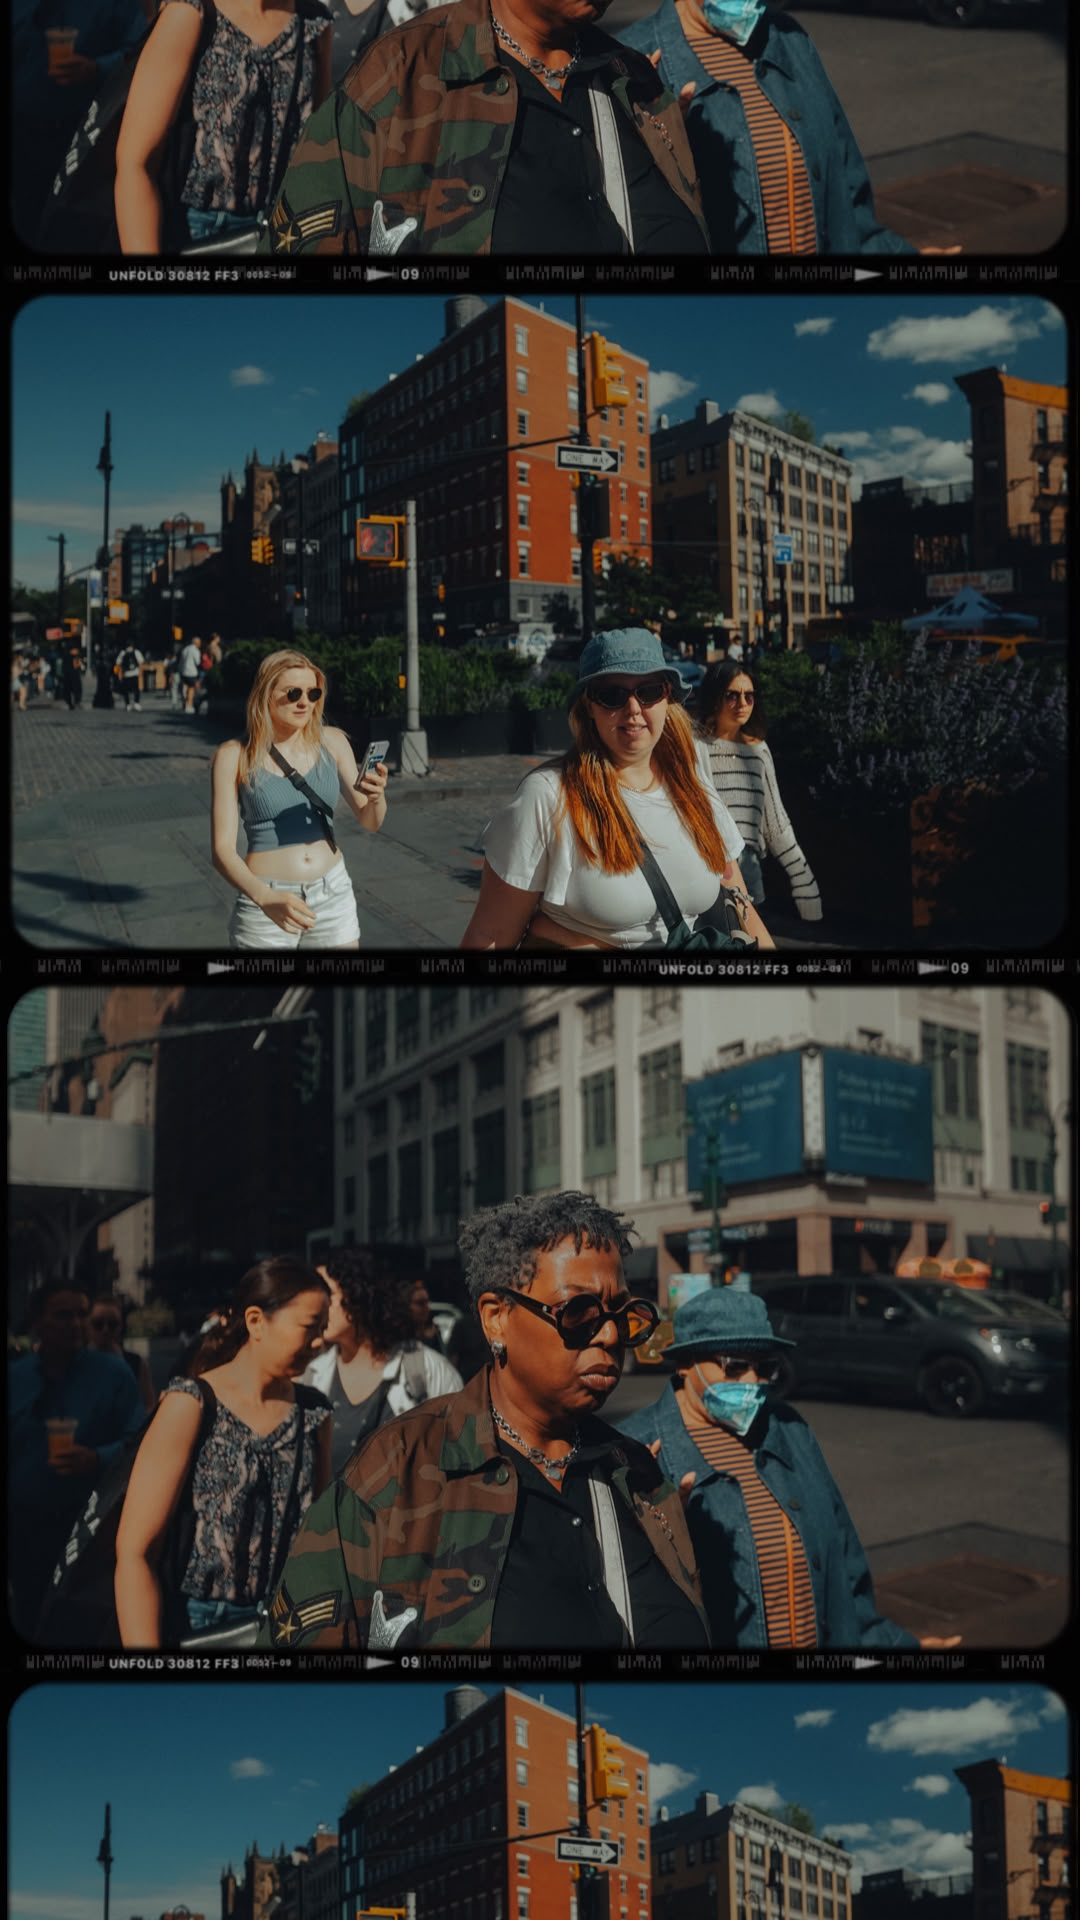
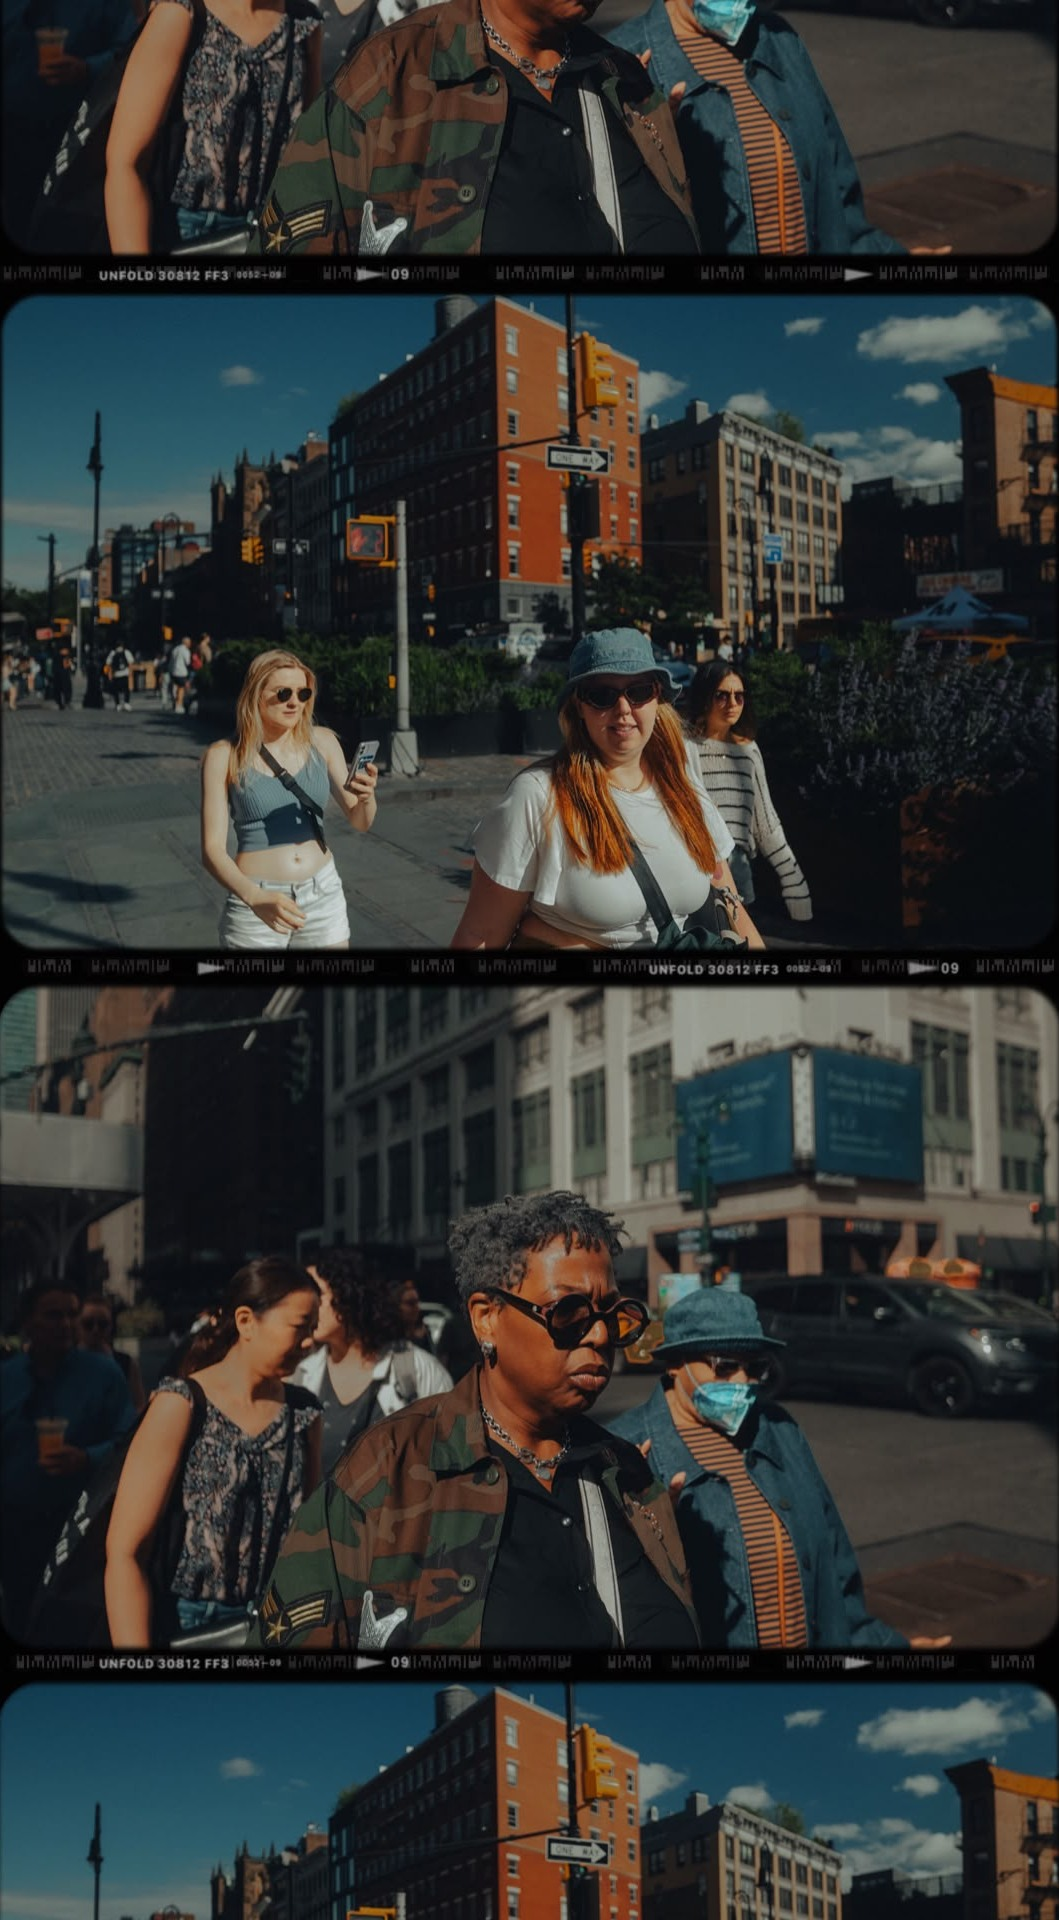
Fix About UX: crop Big Texan bars, drop duplicate photobook label, wire trip photos.
Clean polaroid/solo image framing so letterboxing never shows on black; deploy corpus for IL/KS/NM/TX stops.

diff --git a/src/index.css b/src/index.css
@@ -845,6 +845,7 @@ button {
   border-radius: 3px;
   box-shadow: 0 6px 16px rgba(0, 0, 0, 0.18);
   transform: rotate(-3deg);
+  overflow: hidden;
 }
 
 .road-trip__polaroid img {
@@ -852,6 +853,8 @@ button {
   width: 100%;
   aspect-ratio: 4 / 3;
   object-fit: cover;
+  object-position: center;
+  background: #f0f2f5; /* never letterbox onto black */
 }
 
 .road-trip__panel-text {
@@ -915,7 +918,16 @@ button {
 /* ── About: solo city trips ──────────────────────────────────────── */
 .about-solo-trips {
   margin-top: 3rem;
-  padding-bottom: 3rem;
+  padding: 0 clamp(0.75rem, 3vw, 2rem) 2rem;
+  max-width: 1100px;
+  margin-inline: auto;
+}
+
+.about-solo-trips__layout {
+  display: grid;
+  grid-template-columns: 1fr;
+  gap: 1.5rem;
+  align-items: stretch;
 }
 
 .solo-trips__grid {
@@ -929,12 +941,20 @@ button {
   margin: 0;
 }
 
+.solo-trips__frame {
+  border-radius: 8px;
+  overflow: hidden;
+  border: 1px solid var(--folio-line, #d5dde5);
+  background: #f0f2f5;
+}
+
 .solo-trips__grid img {
+  display: block;
   width: 100%;
   aspect-ratio: 4 / 5;
   object-fit: cover;
-  border-radius: 6px;
-  border: 1px solid var(--folio-line, #d5dde5);
+  object-position: center;
+  background: #f0f2f5;
 }
 
 .solo-trips__grid figcaption {
@@ -946,25 +966,103 @@ button {
   color: var(--muted);
 }
 
-.about-photobook {
-  margin-top: 3rem;
-  padding-bottom: 3rem;
+/* Desktop / laptop / tablet: photobook callout fills the right blank */
+.solo-trips__photobook {
+  display: none;
+  flex-direction: column;
+  justify-content: center;
+  align-items: flex-start;
+  gap: 0.65rem;
+  min-height: 12rem;
+  padding: 1.75rem 1.5rem;
+  border: 1px solid var(--folio-line, #d5dde5);
+  border-radius: 10px;
+  background: #fff;
+  text-decoration: none;
+  color: inherit;
+  transition: border-color 0.2s ease, transform 0.2s ease;
 }
 
-.about-photobook__label {
+.solo-trips__photobook:hover {
+  border-color: #111212;
+  transform: translateY(-2px);
+}
+
+.solo-trips__photobook-label {
   font-family: 'Just Me Again Down Here', cursive;
-  font-size: 1.6rem;
+  font-size: clamp(2rem, 4vw, 3.25rem);
+  line-height: 1.05;
   color: #111212;
-  margin-bottom: 0.75rem;
+}
+
+.solo-trips__photobook-sub {
+  font-family: var(--font-mono, 'DM Mono', monospace);
+  font-size: 0.72rem;
+  letter-spacing: 0.08em;
+  text-transform: uppercase;
+  color: var(--muted, #747272);
+}
+
+@media (min-width: 768px) {
+  .about-solo-trips__layout {
+    grid-template-columns: minmax(0, 1.15fr) minmax(0, 0.85fr);
+    gap: 2rem;
+    align-items: stretch;
+  }
+
+  .solo-trips__grid {
+    max-width: none;
+  }
+
+  .solo-trips__photobook {
+    display: flex;
+    min-height: 100%;
+    align-self: stretch;
+  }
+}
+
+@media (max-width: 767px) {
+  .solo-trips__photobook {
+    display: flex;
+    min-height: 0;
+  }
+}
+
+.about-photobook {
+  margin: 1rem auto 0;
+  padding: 0 clamp(0.75rem, 3vw, 2rem) 3.5rem;
+  max-width: 1100px;
+}
+
+.about-photobook__frame-wrap {
+  border: 1px solid var(--folio-line, #d5dde5);
+  border-radius: 10px;
+  overflow: hidden;
+  background: #fff;
+  box-shadow: 0 8px 28px rgba(15, 23, 42, 0.06);
 }
 
 .about-photobook__frame {
   display: block;
   width: 100%;
-  max-width: 960px;
-  height: 640px;
-  border: 1px solid var(--folio-line, #d5dde5);
-  border-radius: 8px;
+  height: min(70vh, 720px);
+  border: 0;
+  background: #fff;
+}
+
+.about-photobook__external {
+  display: inline-flex;
+  margin-top: 0.85rem;
+  font-family: var(--font-mono, 'DM Mono', monospace);
+  font-size: 0.72rem;
+  letter-spacing: 0.06em;
+  text-transform: uppercase;
+  color: var(--muted, #747272);
+  text-decoration: none;
+}
+
+.about-photobook__external:hover {
+  color: #111212;
 }
 
 @media (max-width: 700px) {

diff --git a/src/components/RoadTrip.jsx b/src/components/RoadTrip.jsx
@@ -14,7 +14,11 @@ const OTHER_COLOR = '#f6f4ee'
 // Fractional position (0-1) within each stop's state bounding box, based on
 // the real-world location relative to that state's shape.
 const TRIP_STOPS = [
+  // Departure / midwest → west (photos pending for IN + OK)
+  { id: 'indianapolis', title: 'Indianapolis', desc: 'Indiana — departure', state: 'IN', fx: 0.55, fy: 0.55, note: 'Packed the car. Twelve states waiting.' },
+  { id: 'illinois', title: 'Chicago', desc: 'Illinois — kayaks under the bridge', state: 'IL', fx: 0.82, fy: 0.18, note: 'Lime kayaks, steel overhead, Chicago in the middle.', photo: '/travel/chicago-il.jpg' },
   { id: 'missouri', title: 'Missouri', desc: 'Crossing the Mississippi', state: 'MO', fx: 0.92, fy: 0.55, note: 'Somewhere past St. Louis, the trip finally felt real.', photo: '/travel/missouri.jpg' },
+  { id: 'kansas', title: 'Fort Riley', desc: 'Junction City, Kansas', state: 'KS', fx: 0.55, fy: 0.38, note: 'Water tower and open sky — Midwestern mile marker.', photo: '/travel/fort-riley-ks.jpg' },
   { id: 'garden-of-gods', title: 'Garden of the Gods', desc: 'Colorado Springs', state: 'CO', fx: 0.55, fy: 0.62, note: 'Red rock spires, no crowds, just us and the wind.', photo: '/travel/garden-of-gods.jpg' },
   { id: 'cliff-dwellers', title: 'Manitou Cliff Dwellings', desc: 'Manitou Springs', state: 'CO', fx: 0.53, fy: 0.6, note: 'Ancient homes carved into sandstone, still standing.', photo: '/travel/cliff-dwellings.jpg' },
   { id: 'pikes-peak', title: 'Pikes Peak', desc: 'America’s Mountain', state: 'CO', fx: 0.52, fy: 0.58 },
@@ -34,13 +38,14 @@ const TRIP_STOPS = [
   { id: 'sequoia', title: 'Sequoia National Park', desc: 'California', state: 'CA', fx: 0.65, fy: 0.55, note: 'Trees older than any of our problems.', photo: '/travel/sequoia.jpg' },
   { id: 'route66', title: 'Route 66 · End of the Trail', desc: 'Santa Monica Pier', state: 'CA', fx: 0.25, fy: 0.78, note: 'End of the road. Feet in the Pacific at last.', photo: '/travel/route66-santa-monica.jpg' },
   { id: 'grand-canyon', title: 'Grand Canyon', desc: 'South Rim', state: 'AZ', fx: 0.25, fy: 0.15, note: 'Stood at the rim and still couldn’t believe the scale.', photo: '/travel/grand-canyon.jpg' },
+  // Return leg
+  { id: 'new-mexico', title: 'Santa Rosa', desc: 'New Mexico — sunrise on the highway', state: 'NM', fx: 0.72, fy: 0.38, note: 'Sun through the windshield. Still heading home.', photo: '/travel/santa-rosa-nm.jpg' },
+  { id: 'texas', title: 'Big Texan', desc: 'Amarillo, Texas', state: 'TX', fx: 0.42, fy: 0.1, note: 'Flags, a yellow landmark, and a Texas-sized lunch.', photo: '/travel/amarillo-big-texan.jpg' },
+  { id: 'oklahoma', title: 'Oklahoma', desc: 'Almost back east', state: 'OK', fx: 0.55, fy: 0.45, note: 'Last open stretch before the map folds up.' },
 ]
 
-// The full 12-state corridor (including states driven through with no
-// dedicated stop) gets the route tint; only stops get markers/panels.
-const ROUTE_STATES = [
-  ...new Set([...TRIP_STOPS.map((s) => s.state), 'IN', 'IL', 'KS', 'NM', 'TX', 'OK']),
-]
+// Full 12-state corridor — every state here has a stop so the marker visits it.
+const ROUTE_STATES = [...new Set(TRIP_STOPS.map((s) => s.state))]
 const ALL_STATE_CODES = Object.keys(STATE_PATHS)
 
 export default function RoadTrip() {
@@ -71,7 +76,7 @@ export default function RoadTrip() {
         scrollTrigger: {
           trigger: scrollerRef.current,
           start: 'top top',
-          end: () => `+=${Math.max(2400, window.innerHeight * 2.5)}`,
+          end: () => `+=${Math.max(3600, window.innerHeight * (2.2 + TRIP_STOPS.length * 0.12))}`,
           scrub: 1,
           pin: pinRef.current,
           invalidateOnRefresh: true,

diff --git a/src/pages/About.jsx b/src/pages/About.jsx
@@ -79,24 +79,41 @@ export default function About() {
 
       <section className="about-solo-trips">
         <p className="about-section__eyebrow">Street photography, solo</p>
-        <div className="solo-trips__grid">
-          {SOLO_SHOTS.map((shot) => (
-            <figure key={shot.src}>
-              <img src={shot.src} alt={shot.alt} loading="lazy" />
-              <figcaption>{shot.caption}</figcaption>
-            </figure>
-          ))}
+        <div className="about-solo-trips__layout">
+          <div className="solo-trips__grid">
+            {SOLO_SHOTS.map((shot) => (
+              <figure key={shot.src}>
+                <div className="solo-trips__frame">
+                  <img src={shot.src} alt={shot.alt} loading="lazy" />
+                </div>
+                <figcaption>{shot.caption}</figcaption>
+              </figure>
+            ))}
+          </div>
+          <a className="solo-trips__photobook" href="#photobook">
+            <span className="solo-trips__photobook-label">photobook.photography</span>
+            <span className="solo-trips__photobook-sub">Browse the archive below →</span>
+          </a>
         </div>
       </section>
 
-      <section className="about-photobook">
-        <p className="about-photobook__label">photobook.photography</p>
-        <iframe
-          className="about-photobook__frame"
-          src="https://dannyphoto.framer.website/"
-          title="Danny's photography portfolio"
-          loading="lazy"
-        />
+      <section className="about-photobook" id="photobook" aria-label="Photography archive">
+        <div className="about-photobook__frame-wrap">
+          <iframe
+            className="about-photobook__frame"
+            src="https://dannyphoto.framer.website/"
+            title="Danny's photography portfolio"
+            loading="lazy"
+          />
+        </div>
+        <a
+          className="about-photobook__external"
+          href="https://dannyphoto.framer.website/"
+          target="_blank"
+          rel="noopener noreferrer"
+        >
+          Open photobook.photography ↗
+        </a>
       </section>
     </div>
   )
